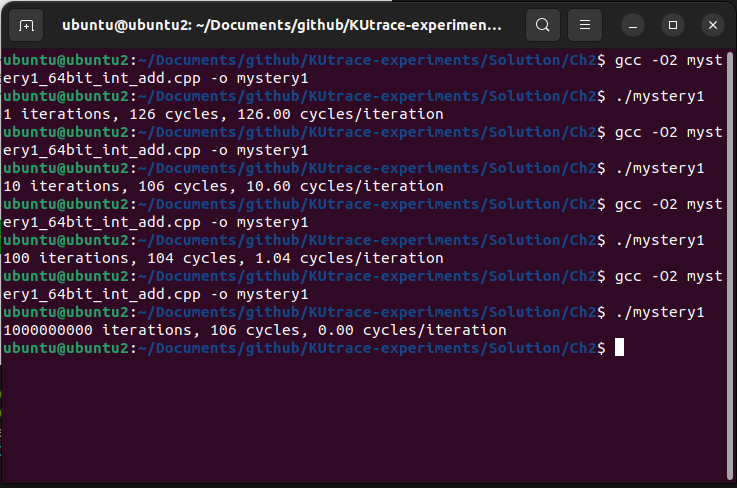
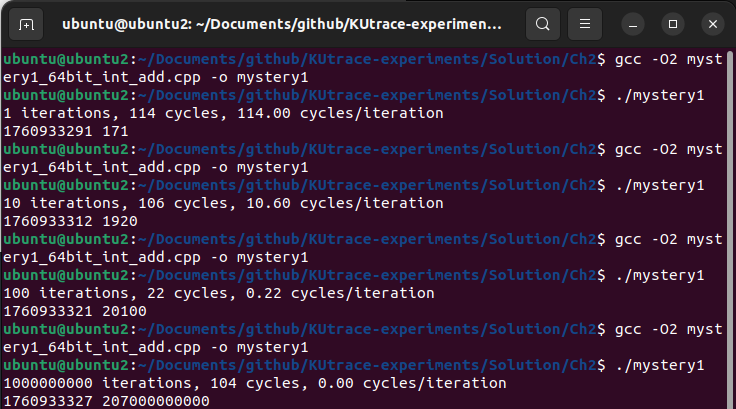
small fix in 2.6

diff --git a/Solution/Ch2/mystery1_64bit_int_add.cpp b/Solution/Ch2/mystery1_64bit_int_add.cpp
@@ -21,7 +21,7 @@ int main (int argc, const char** argv) {
   fprintf(stdout, "%d iterations, %lu cycles, %4.2f cycles/iteration\n", 
           kIterations, elapsed, felapsed / kIterations);
   
-  // fprintf(stdout, "%lu %lu\n", t, sum);	// Make sum live
+  fprintf(stdout, "%lu %lu\n", t, sum);	// Make sum live
 
   return 0;
 }
